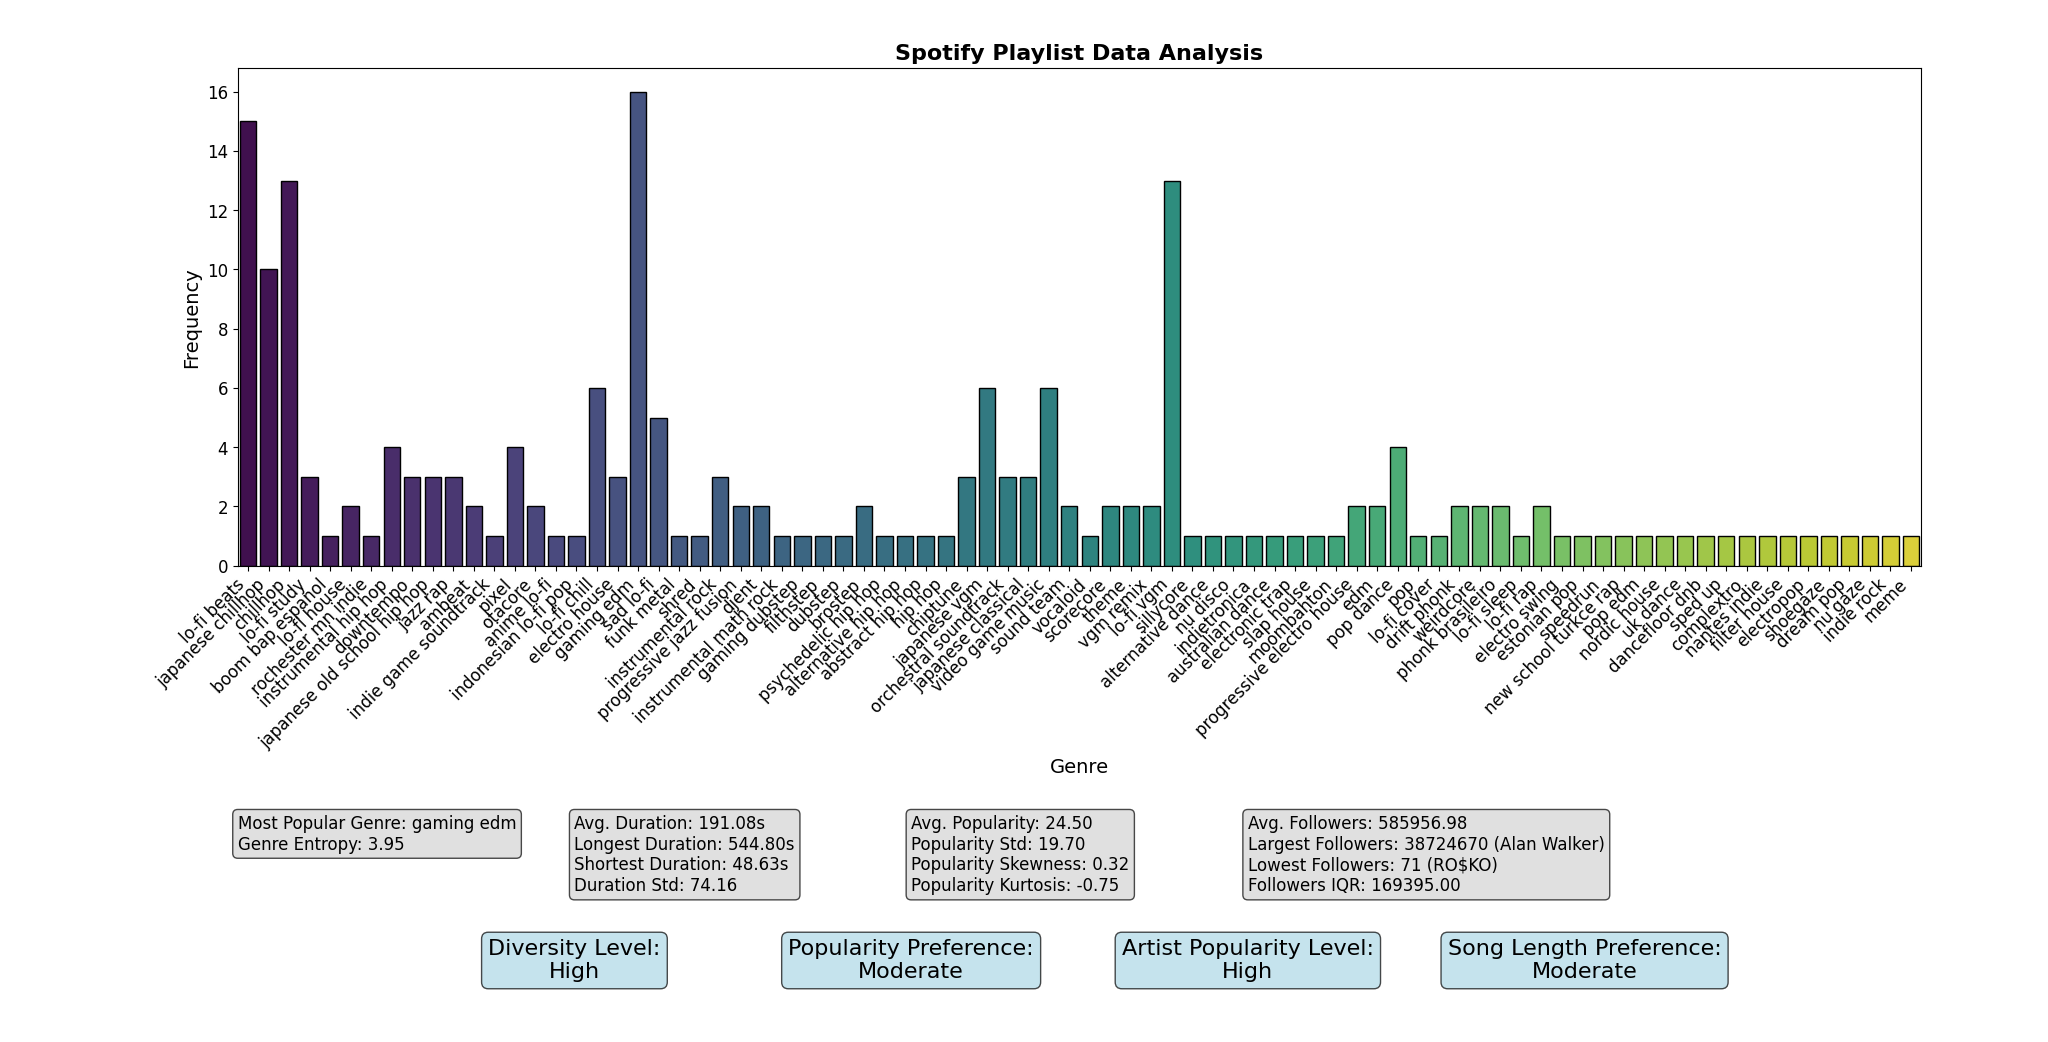
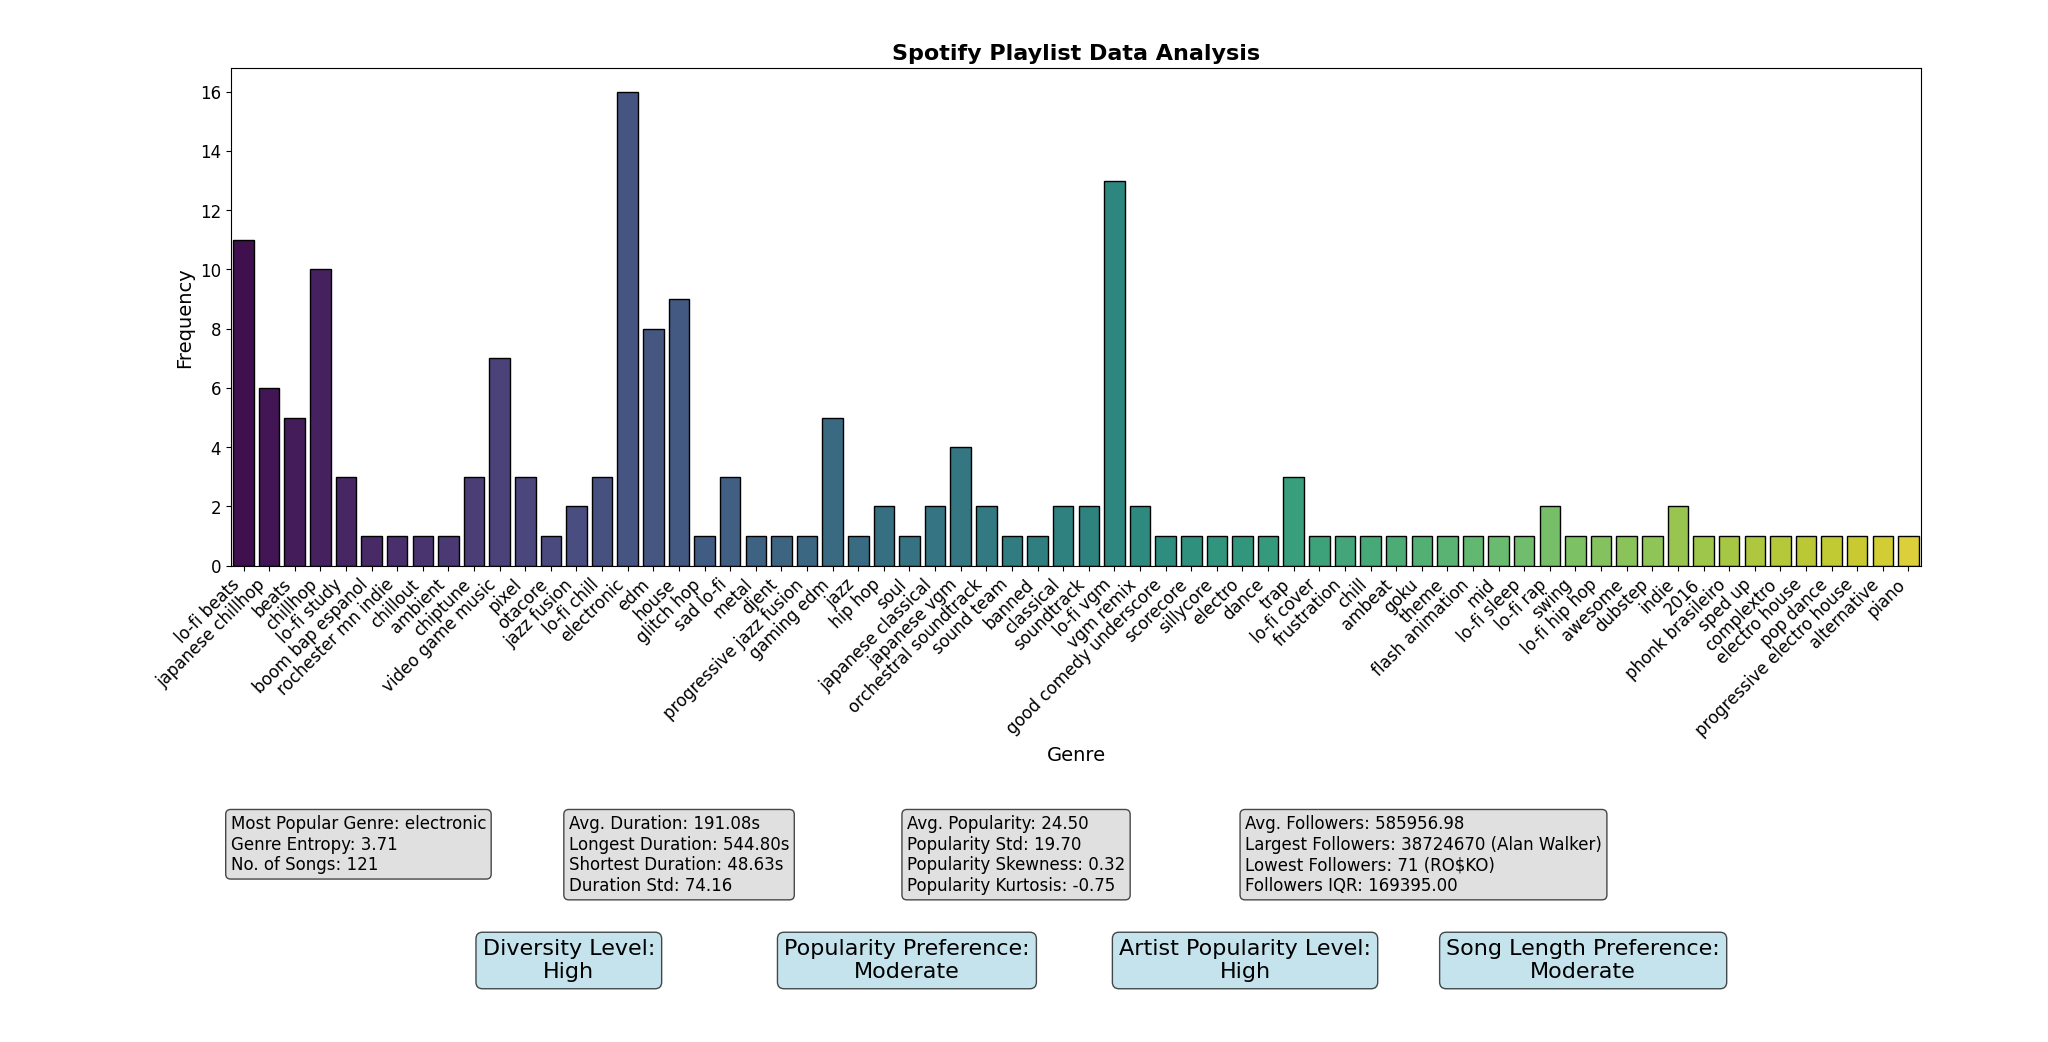
Grouped some genres together

diff --git a/main.py b/main.py
@@ -12,6 +12,8 @@ load_dotenv()
 
 CLIENT_ID = os.getenv('SPOTIFY_CLIENT_ID')
 CLIENT_SECRET = os.getenv('SPOTIFY_CLIENT_SECRET')
+LASTFM_ID = os.getenv('LASTFM_CLIENT_ID')
+LASTFM_SECRET = os.getenv('LASTFM_CLIENT_SECRET')
 
 class Artist:
     def __init__(self, name, followers, popularity, genre):
@@ -19,6 +21,15 @@ class Artist:
         self.followers = followers
         self.popularity = popularity
         self.genre = genre
+    
+    def get(self):
+        return {
+            "name": self.name,
+            "followers": self.followers,
+            "popularity": self.popularity,
+            "genre": self.genre,
+        }
+
     
     def __str__(self):
         return (
@@ -29,16 +40,16 @@ class Artist:
         )
 
 class Song:
-    def __init__(self, name, artists, duration, explicit, popularity):
+    def __init__(self, name, artists, duration, explicit, popularity, genre):
         self.name = name
         self.artists = artists
         self.duration = duration
         self.explicit = explicit
         self.popularity = popularity
+        self.genre = genre
 
     def get(self):
         artist_names = [artist.name for artist in self.artists]
-        genres = set(genre for artist in self.artists for genre in artist.genre)
         artist_followers = [artist.followers for artist in self.artists]
         artist_popularities = [artist.popularity for artist in self.artists]
 
@@ -48,7 +59,7 @@ class Song:
             "duration": self.duration,
             "explicit": self.explicit,
             "popularity": self.popularity,
-            "genre": list(genres),
+            "genre": list(self.genre),
             "artist_followers": artist_followers,
             "artist_popularity": artist_popularities
         }
@@ -290,6 +301,59 @@ def get_artist(access_token, artist_id):
     response = requests.get(url, headers=headers)
     return response.json()
 
+def get_genre(name, artists):
+    known_genres = [
+        'pop', 'rock', 'hip hop', 'rap', 'jazz', 'classical', 'electronic', 'folk', 'country',
+        'blues', 'reggae', 'metal', 'punk', 'soul', 'funk', 'disco', 'house', 'techno', 'trance',
+        'dubstep', 'bossa nova', 'indie', 'alternative', 'r&b', 'latin', 'world', 'ska', 'ambient',
+        'grunge', 'opera', 'gospel', 'bluegrass', 'swing', 'synthpop', 'new wave', 'edm', 
+        'video game music', 'trap', 'lo-fi', 'dance', 'electro', 'hardstyle', 'glitch hop', 'vaporwave',
+        'chiptune', 'progressive house', 'deep house',
+        'k-pop', 'j-pop', 'j-rock', 'j-rap', 'jazz fusion', 'enka', 'kayokyoku',
+        'mandopop', 'cantopop', 'thai-pop', 'v-pop', 'thai pop', 'indian pop',
+        'bhangra', 'qawwali', 'filmi', 'arab pop', 'rai', 'turkish pop', 'greek pop',
+        'afrobeat', 'highlife', 'juj music', 'kizomba', 'kuduro', 'kwaito', 'flamenco', 'tango',
+        'samba', 'reggaeton', 'merengue', 'bachata', 'cumbia', 'vallenato', 'fado', 'klezmer',
+        'schlager', 'zouk', 'soukus', 'mbalax', 'kaseko', 'maloya', 'funana', 'sega', 'calypso', 
+        'soca', 'mento', 'salsa', 'chicha', 'huayno', 'forro', 'brega', 'axé', 'frevo', 'pagode',
+        'tropicalia', 'celtic', 'traditional irish', 'eurobeat'
+    ]
+
+    artist_list = []
+
+    for artist in artists:
+        artist_list.append(artist.get()['name'])
+    
+    if not name or not artist_list:
+        raise ValueError("Song dictionary must contain 'name' and 'artists' keys.")
+
+    artist_name = ', '.join(artist_list)
+    
+    url = 'http://ws.audioscrobbler.com/2.0/'
+
+    params = {
+        'method': 'track.getInfo',
+        'api_key': LASTFM_ID,
+        'artist': artist_name,
+        'track': name,
+        'format': 'json'
+    }
+    
+    response = requests.get(url, params=params)
+    data = response.json()
+    
+    if 'track' in data and 'toptags' in data['track']:
+        tags = data['track']['toptags']['tag']
+
+        genres = [tag['name'].lower() for tag in tags if tag['name'].lower() in known_genres]
+
+        if not genres and tags:
+            genres = [tags[0]['name'].lower()]
+
+        return genres
+    else:
+        return []
+
 def visualization(playlist):
     song_stats = playlist.song_statistics()
     genre_stats = song_stats['genre']
@@ -318,7 +382,8 @@ def visualization(playlist):
 
     textstr1 = '\n'.join((
         f"Most Popular Genre: {genre_stats['mode']}",
-        f"Genre Entropy: {genre_stats['entropy']:.2f}"
+        f"Genre Entropy: {genre_stats['entropy']:.2f}",
+        f"No. of Songs: {playlist.playlist_length()}"
     ))
 
     textstr2 = '\n'.join((
@@ -419,6 +484,7 @@ def main():
     songs = []
 
     for s in playlist_data:
+
         name = s['track']['name']
         artists = []
         duration = s['track']['duration_ms'] / 1000
@@ -426,6 +492,15 @@ def main():
         popularity = s['track']['popularity']
 
         artist_data = s['track']['artists']
+
+        for a in artist_data:
+            skip = False
+
+            if a['id'] is None:
+                skip = True
+
+        if skip:
+            continue
 
         for a in artist_data:
             artist_id = a['id']
@@ -439,11 +514,26 @@ def main():
             artist = Artist(artist_name, artist_followers, artist_popularity, artist_genres)
             artists.append(artist)
         
-        song = Song(name, artists, duration, explicit, popularity)
+        genre = get_genre(name, artists)
+
+        if len(genre) <= 0 or genre == []:
+            genre = artists[0].get()['genre']
+
+        song = Song(name, artists, duration, explicit, popularity, genre)
         songs.append(song)
         
     playlist = Playlist(songs)
-    visualization(playlist)
+    
+    if playlist.playlist_length() <= 1:
+        print(playlist.playlist_length())
+        return False
+    else:
+        visualization(playlist)
+        return True
     
 if __name__ == '__main__':
-    main()
+    run = main()
+
+    while not run:
+        print("Playlist has less than 2 songs - Try another playlist or adding more songs")
+        run = main()
